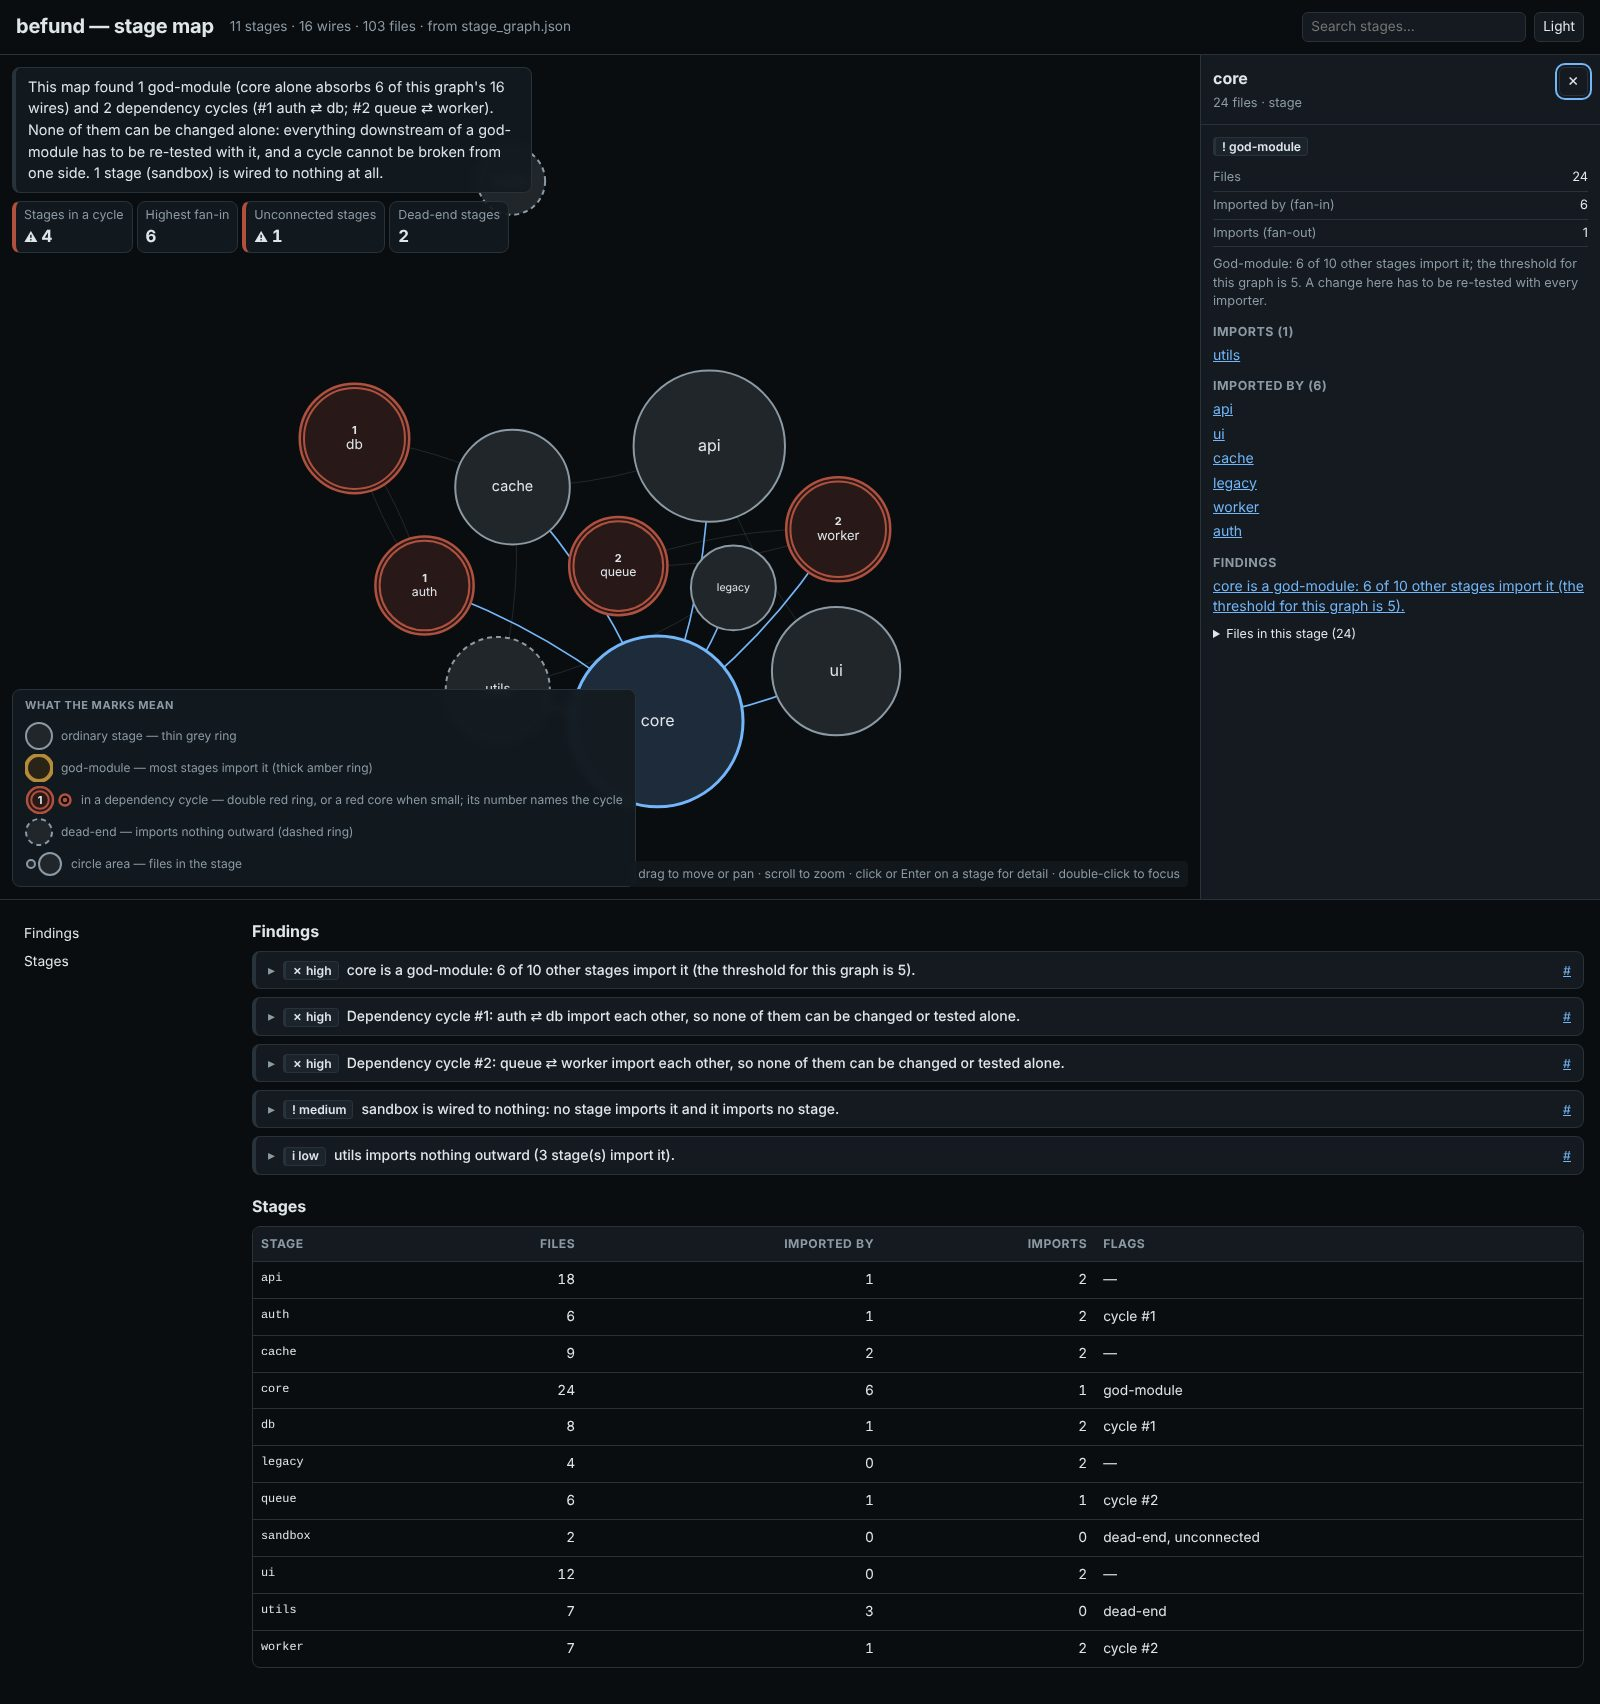
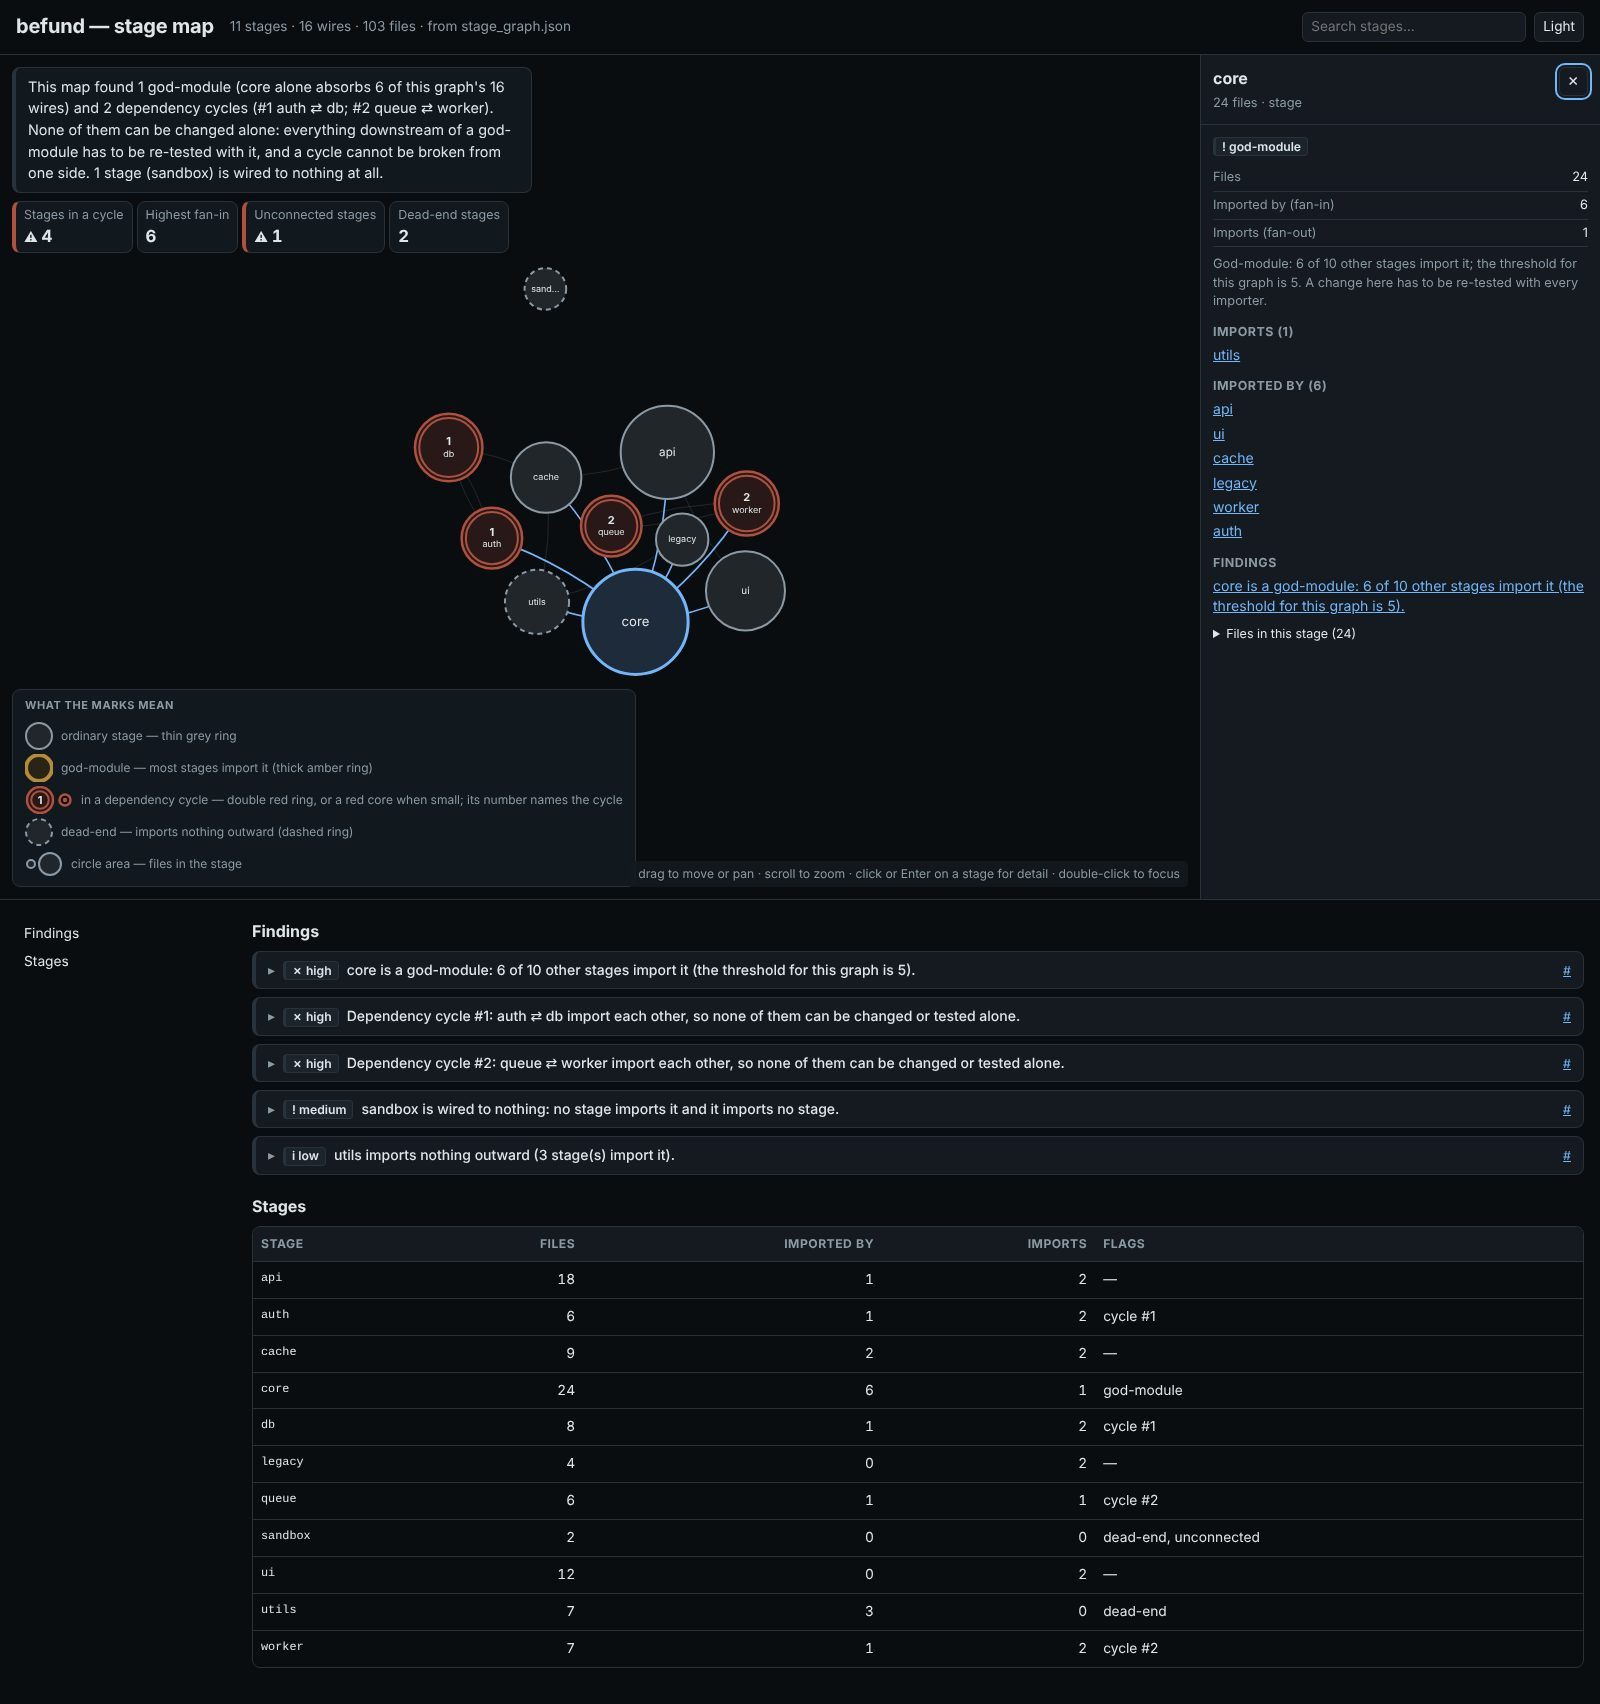
wip(viewers): figure-first (R9) migration in progress
Claude-Session: https://claude.ai/code/session_01T7ct7CVxAQqp3tqKbKtmYX

Changed region(s): [[0.1875, 0.2177, 0.5625, 0.4977], [0.3125, 0.1555, 0.375, 0.1866], [0.3125, 0.0933, 0.3438, 0.1244]]

diff --git a/plugins/matrize/assets/derivation-viewer.html b/plugins/matrize/assets/derivation-viewer.html
@@ -219,12 +219,6 @@ figure { margin: var(--space-3) 0; break-inside: avoid; }
     const xOf = (r) => px0 + (Math.log10(Math.max(1, Math.min(21, r))) - lo) / (hi - lo) * pw;
     const y0 = top + Math.max(0, Math.floor((H - top - bottom - n * (RH + GAP)) / 2));
     const yEnd = y0 + n * (RH + GAP);
-    [[TH.large, "3.0 UI / large", "rule-warn"], [TH.body, "4.5 AA body", "rule-pass"], [TH.aaa, "7.0 AAA", "rule-warn"]].forEach(([at, label, cls]) => {
-      const x = xOf(at);
-      mk("line", { class: "rule " + cls, x1: x, y1: y0 - 16, x2: x, y2: yEnd, "stroke-dasharray": cls === "rule-pass" ? "" : "3,4" }, svg);
-      mk("text", { class: "rule-label", x, y: y0 - 24, "text-anchor": "middle" }, svg, label);
-    });
-    mk("text", { class: "rule-label", x: xOf(1), y: y0 - 24, "text-anchor": "middle" }, svg, "1:1 floor");
     rowEls = [];
     pairs.forEach((p, i) => {
       const y = y0 + i * (RH + GAP), cy = y + RH / 2, v = verdictOf(p);
@@ -251,6 +245,12 @@ figure { margin: var(--space-3) 0; break-inside: avoid; }
       g.addEventListener("mouseenter", tip); g.addEventListener("mousemove", tip); g.addEventListener("focus", tip);
       g.addEventListener("mouseleave", () => S.tip.hide()); g.addEventListener("blur", () => S.tip.hide());
     });
+    [[TH.large, "3.0 UI / large", "rule-warn"], [TH.body, "4.5 AA body", "rule-pass"], [TH.aaa, "7.0 AAA", "rule-warn"]].forEach(([at, label, cls]) => {
+      const x = xOf(at);
+      mk("line", { class: "rule " + cls, "pointer-events": "none", x1: x, y1: y0 - 16, x2: x, y2: yEnd, "stroke-dasharray": cls === "rule-pass" ? "" : "3,4" }, svg);
+      mk("text", { class: "rule-label", x, y: y0 - 24, "text-anchor": "middle" }, svg, label);
+    });
+    mk("text", { class: "rule-label", x: xOf(1), y: y0 - 24, "text-anchor": "middle" }, svg, "1:1 floor");
     if (selI !== null && rowEls[selI]) rowEls[selI].classList.add("sel");
   }
   if (pairs.length) {

diff --git a/plugins/befund/assets/stage-map-viewer.html b/plugins/befund/assets/stage-map-viewer.html
@@ -428,16 +428,9 @@ const simulation = d3.forceSimulation(nodes)
 simulation.stop();
 for (let i = 0, n = Math.ceil(Math.log(simulation.alphaMin()) / Math.log(1 - simulation.alphaDecay())); i < n; i++) simulation.tick();
 
-// fitToNodes() is wired to the simulation's "end" event, which fires again
-// after every re-heat (e.g. simulation.alphaTarget(...).restart() from the
-// node drag handlers below) -- not just the very first time the layout
-// settles. Without this guard, clicking or dragging a node would silently
-// yank the camera back to fit-all a couple seconds later, overriding
-// whatever flyTo()/pan/zoom the user just did. Only the initial auto-frame
-// should apply automatically; subsequent settles are expected to leave the
-// camera wherever the user left it.
-// The frame is refitted whenever the figure resizes (the drawer opening narrows it) until the
-// reader pans, zooms or flies somewhere themselves; after that their camera is left alone.
+// fitToNodes() frames the settled layout. It is NOT tied to the simulation's "end" event, which
+// fires again after every re-heat (a node drag) and would yank the camera back mid-gesture; it
+// runs on load and on figure resize, and only until the reader moves the camera themselves.
 let userTouched = false;
 function fitToNodes() {
   let minX = Infinity, minY = Infinity, maxX = -Infinity, maxY = -Infinity;
